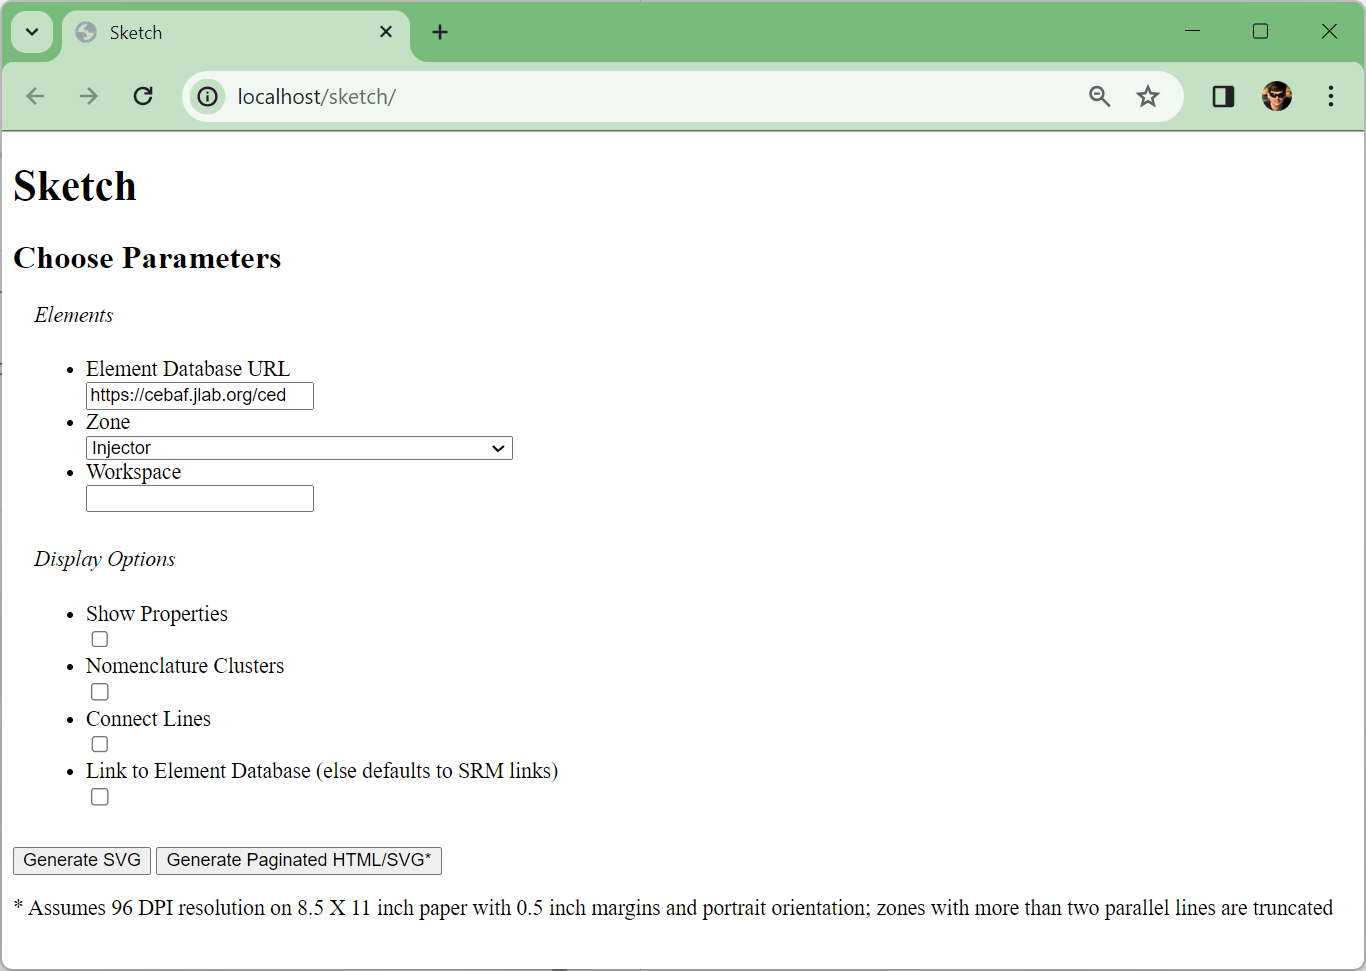
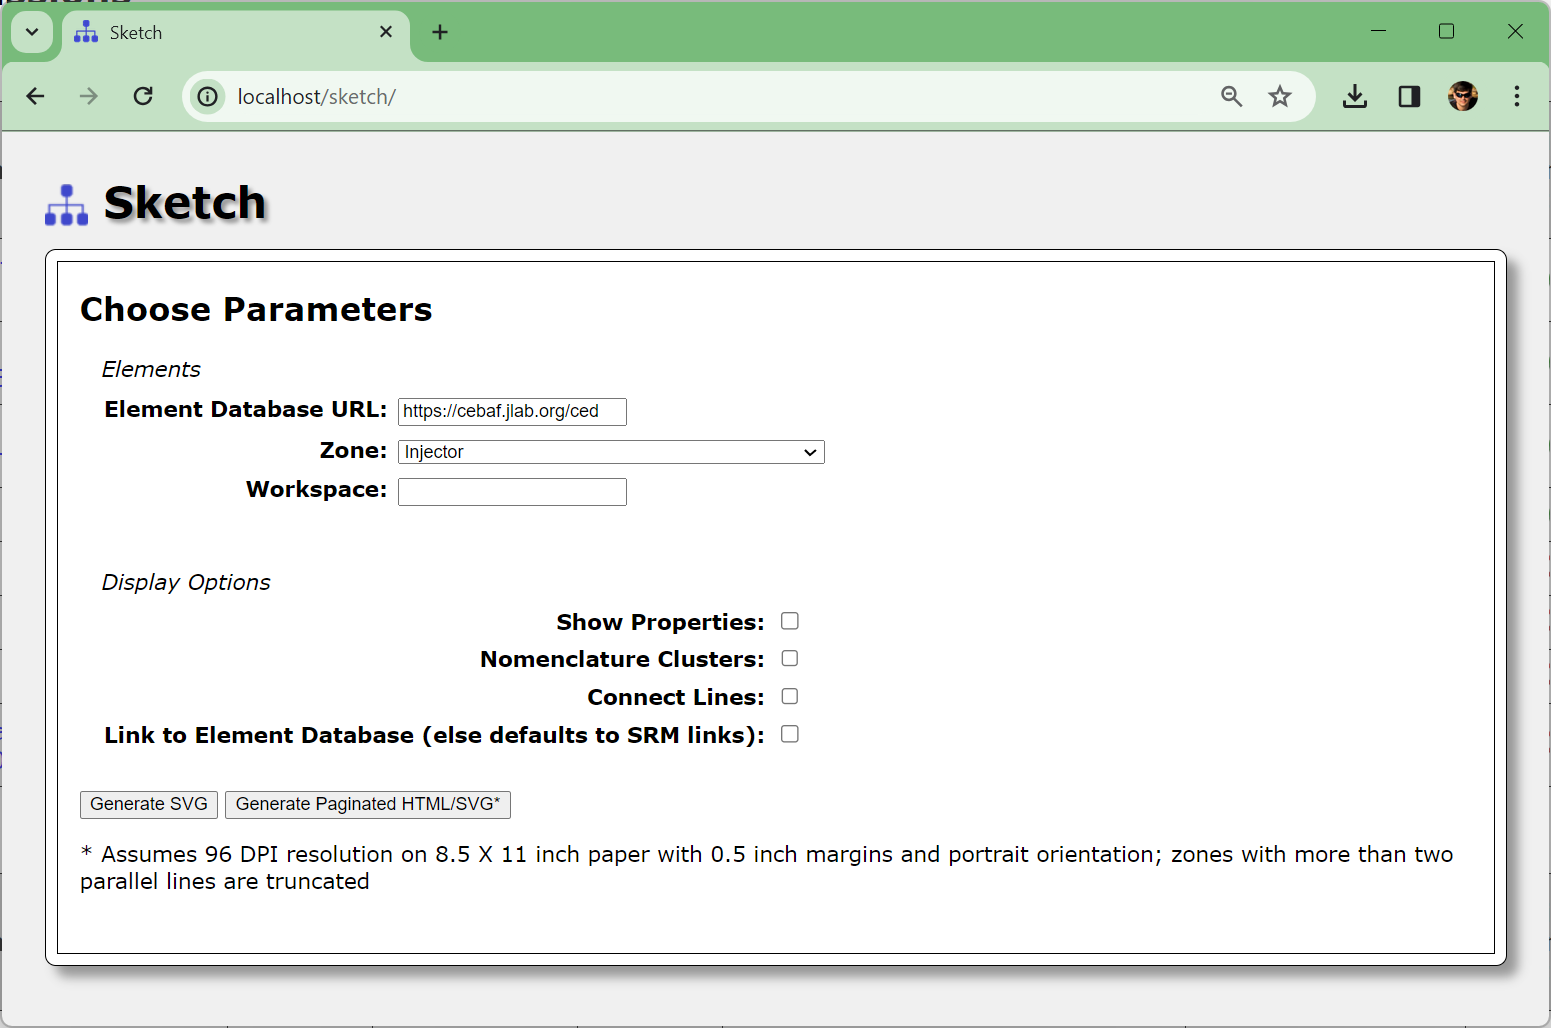
images

diff --git a/www/resources/css/selector.css b/www/resources/css/selector.css
@@ -1,3 +1,6 @@
+#page-header-logo {
+    background: url("../img/logo32x32.png") 0 0;
+}
 fieldset {
     border: none;
 }
